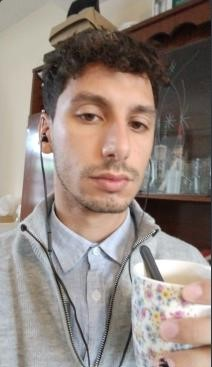
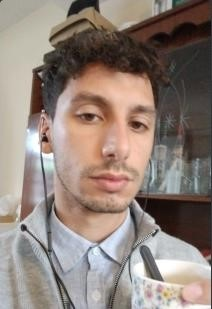
actualizacion de fotos

diff --git a/index.html b/index.html
@@ -138,7 +138,7 @@
 
       <div class="col-sm-6 col-md-4 col-lg-6">
           <div class="col video-responsive d-flex align-items-center justify-content-center mx-auto mb-5" style="max-width: 95%;">    
-            <iframe width="800" height="460" src="https://drive.google.com/drive/u/1/folders/1lJ-VX9MR6NZ-ite8YfpxVQ41SYeoEAuw" title="YouTube video player" frameborder="0" allow="accelerometer; autoplay; clipboard-write; encrypted-media; gyroscope; picture-in-picture" allowfullscreen></iframe></div>
+            <iframe width="800" height="460" src="https://drive.google.com/file/d/1aad-YLRHKxJZaAOZVWslbkV_WE7J0I6m/view?usp=sharing" title="YouTube video player" frameborder="0" allow="accelerometer; autoplay; clipboard-write; encrypted-media; gyroscope; picture-in-picture" allowfullscreen></iframe></div>
       </div>
     </div>
 
